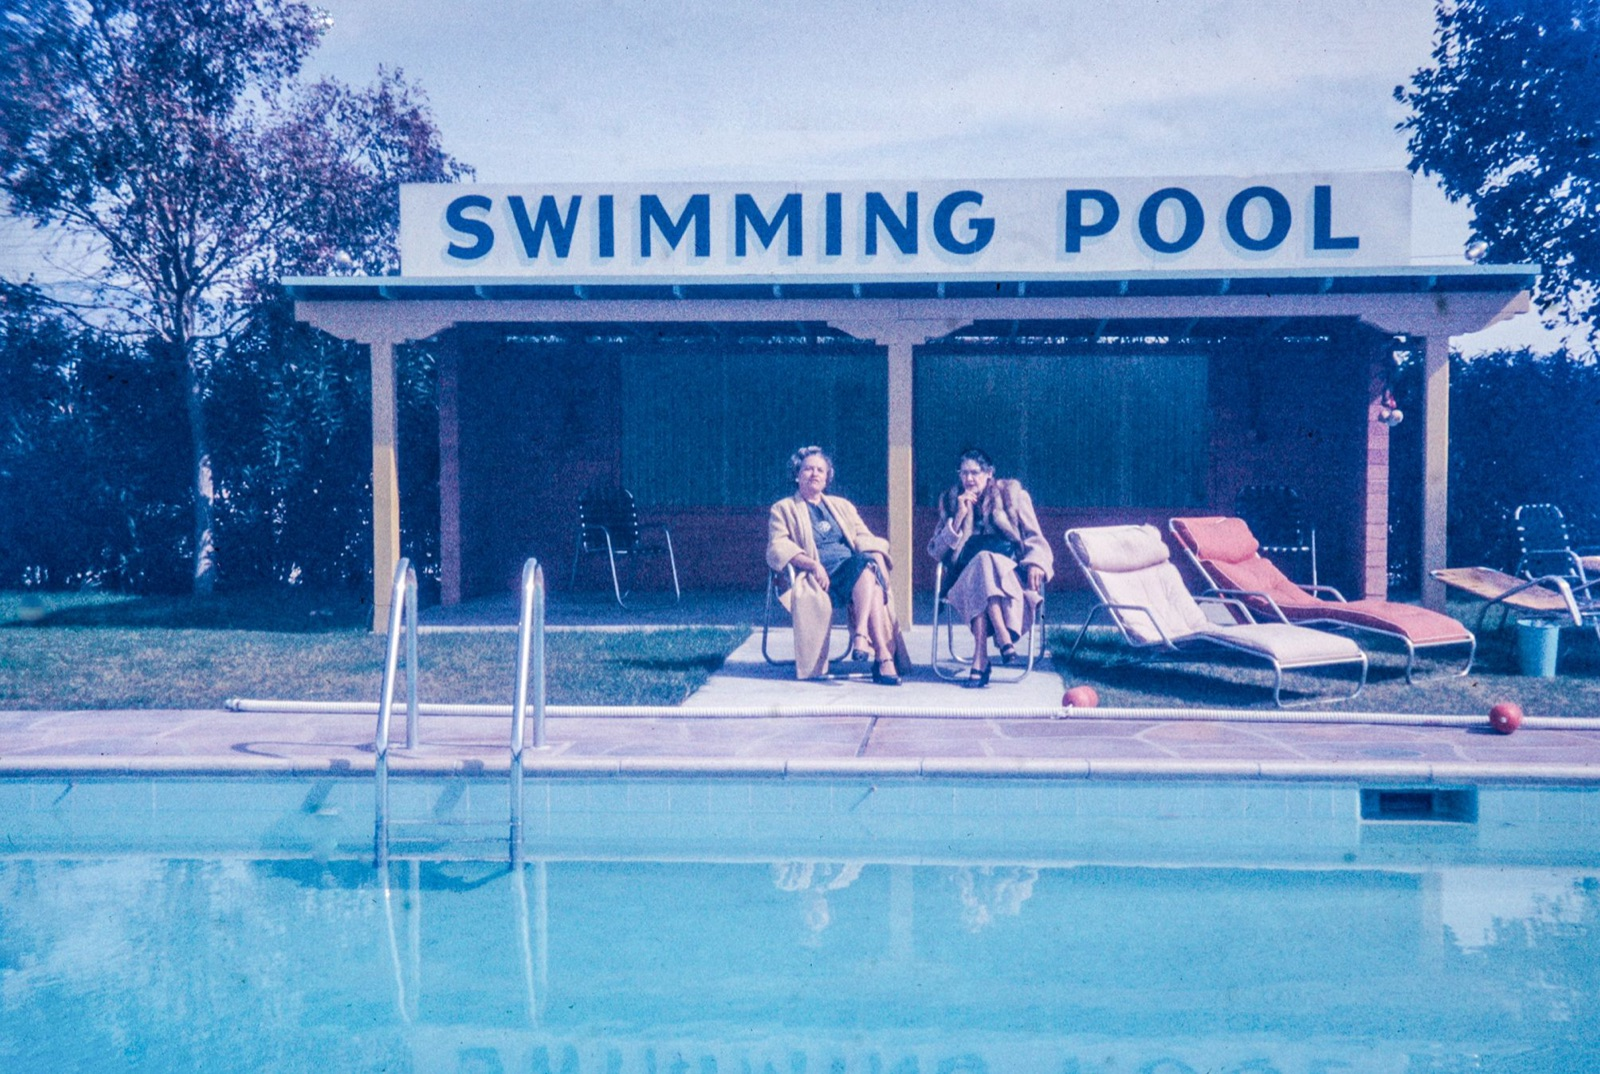
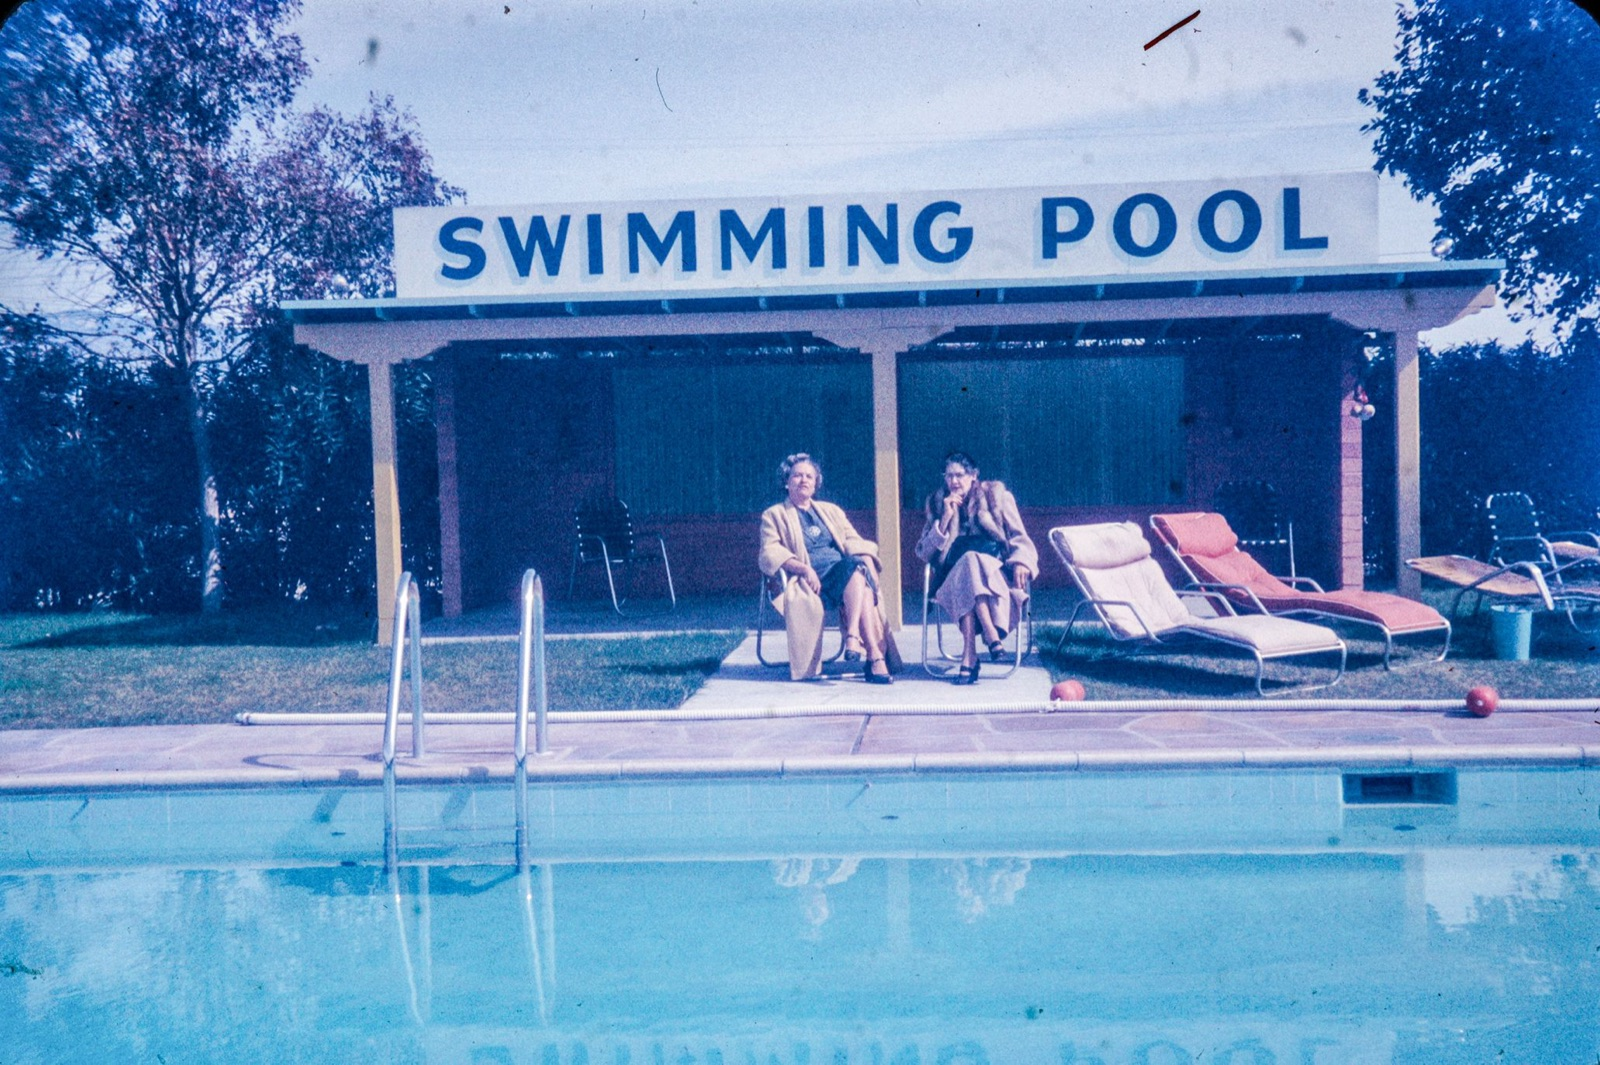
Swap Recapture and Restore before/after images

diff --git a/services.html b/services.html
@@ -20,7 +20,7 @@
 <section class="wrap two"><div><h2>Visualize The Difference</h2></div><div>
 <p>Our image recapture service is designed for customers who want a high-quality digital version of their film slides without additional restoration work.</p>
 <p>Each slide is professionally recaptured and then individually enhanced to bring your memories back to life.</p>
-<div class="ba"><figure><img src="images/recapture.jpg" alt="Recapture example" loading="lazy"><figcaption>Recapture</figcaption></figure><figure><img src="images/restore.jpg" alt="Restore example" loading="lazy"><figcaption>Restore</figcaption></figure></div></div></section>
+<div class="ba"><figure><img src="images/recapture.jpg?v=2" alt="Recapture example" loading="lazy"><figcaption>Recapture</figcaption></figure><figure><img src="images/restore.jpg?v=2" alt="Restore example" loading="lazy"><figcaption>Restore</figcaption></figure></div></div></section>
 </main>
 <footer><div><h4>Follow us on Instagram</h4><a href="https://www.instagram.com/memory.keep" target="_blank" rel="noopener">@memory.keep</a></div>
 <div><h4>Save Your Family's Memories</h4><a class="btn" href="contact.html?service=order#f">Order Now</a></div>
